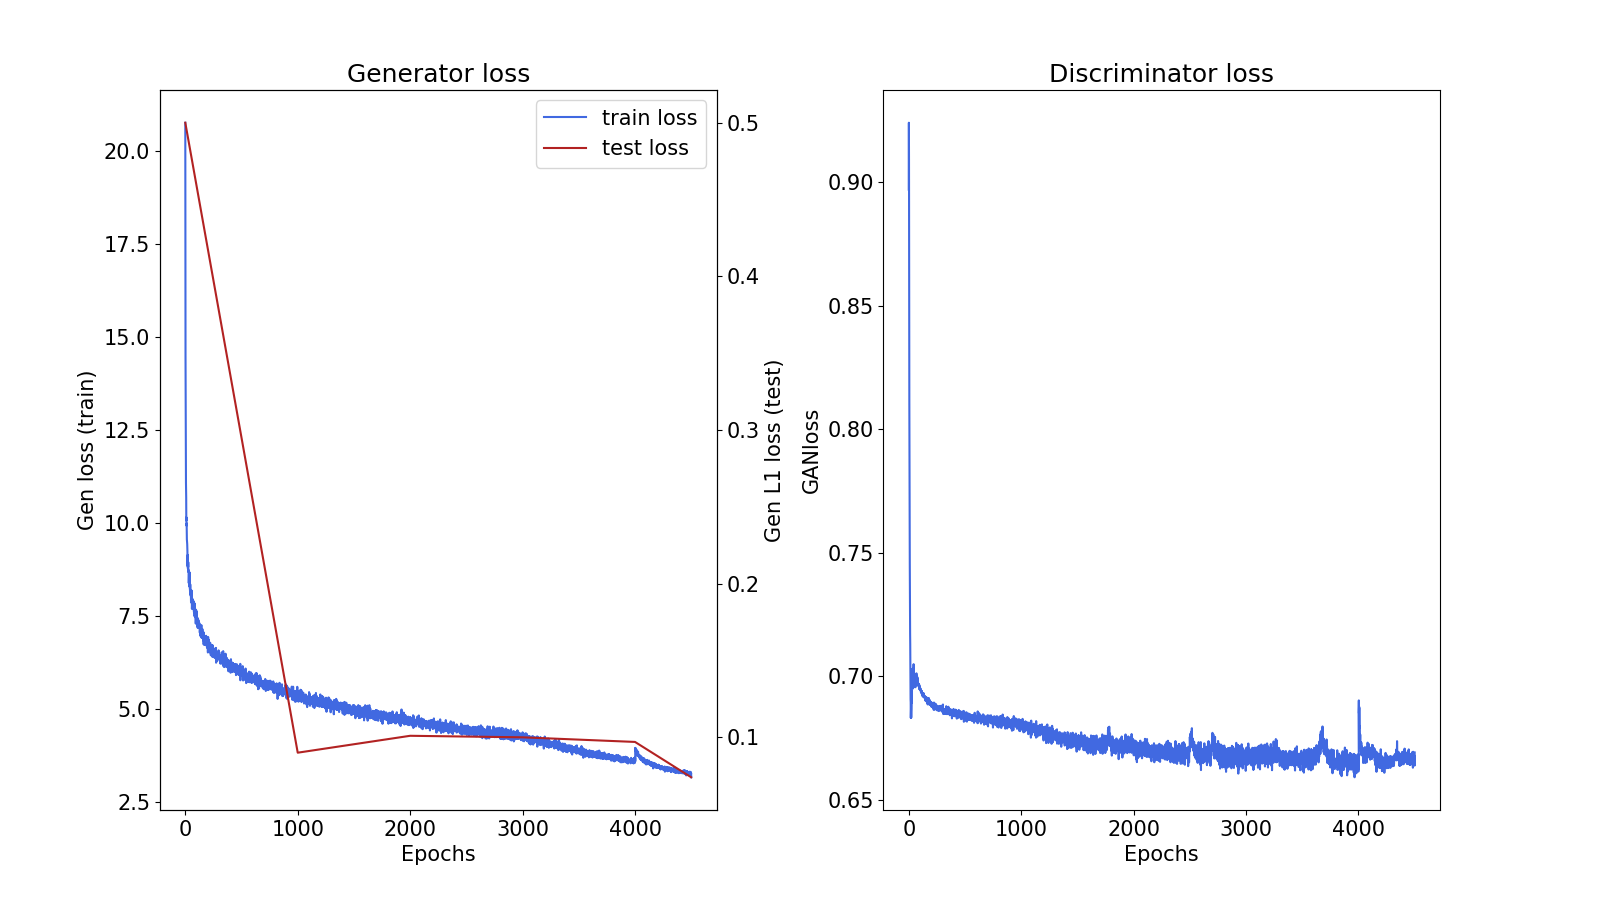
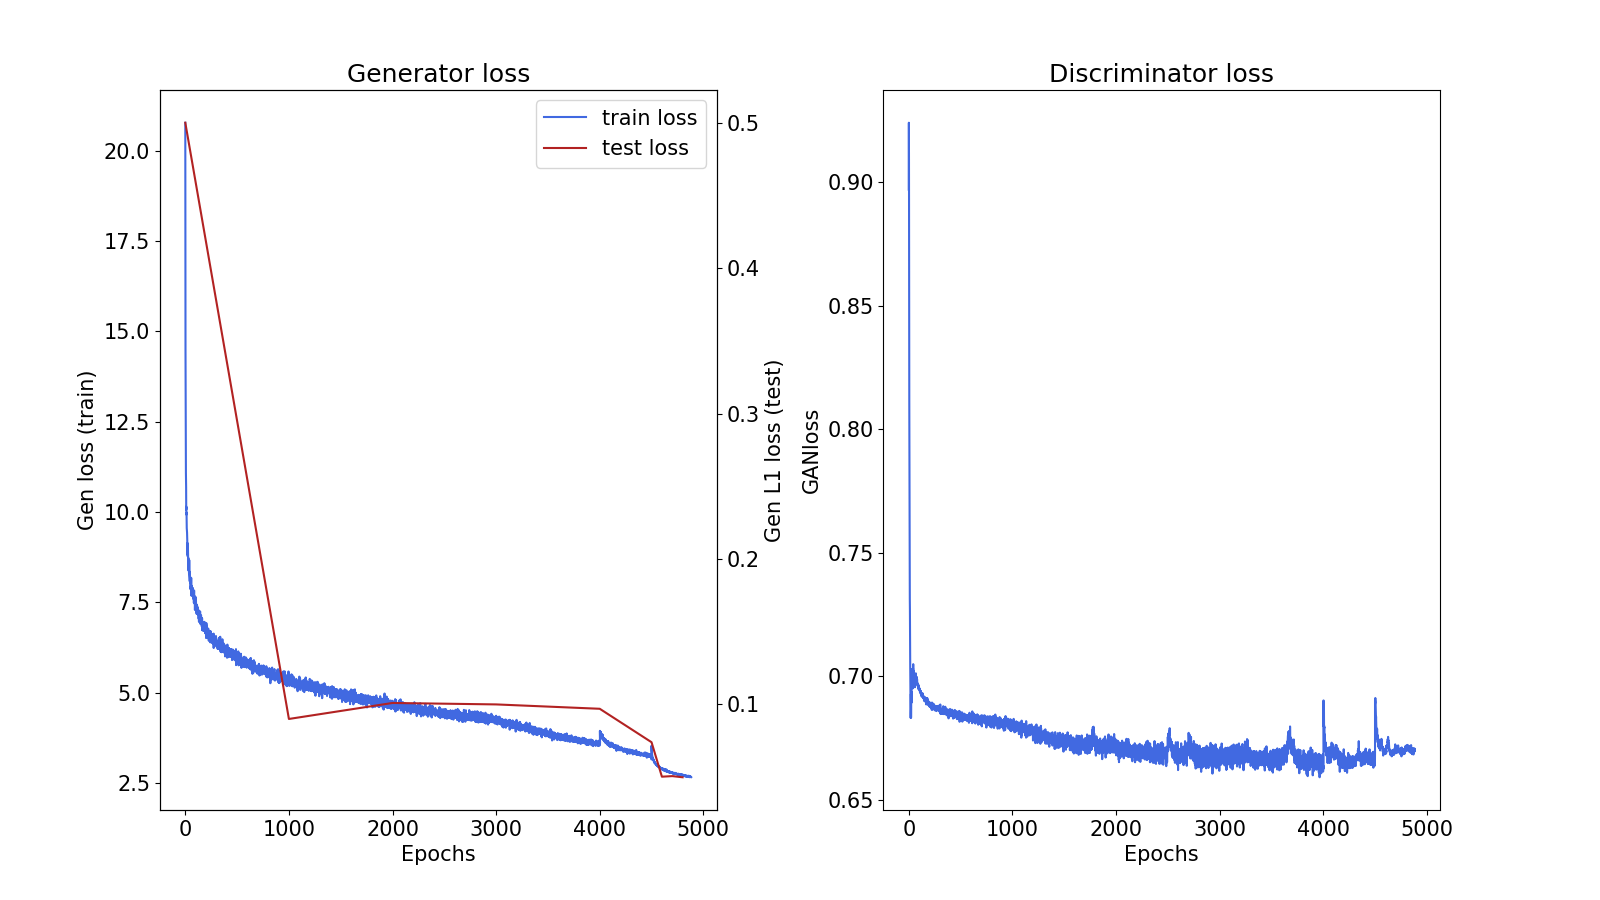
test again

diff --git a/visualize.py b/visualize.py
@@ -3,7 +3,7 @@
 import re
 import matplotlib.pyplot as plt
 
-files = ['../../../expmobile/train1.log', '../../../expmobile/train2.log', '../../../expmobile/train3.log']
+files = ['../../../expmobile/train1.log', '../../../expmobile/train2.log', '../../../expmobile/train3.log', '../../../expmobile/train4.log']
 #lines = [line.rstrip('\n') for line in open(file)]
 
 epochs = []
@@ -53,7 +53,7 @@ ax1.set_xlabel('Epochs')
 ax1.set_ylabel('Gen loss (train)')
 
 ax2 = ax1.twinx()
-p2 = ax2.plot([0, 1000, 2000, 3000, 4000, 4500], [0.5, 0.090, 0.101, 0.100, 0.097, 0.0740], 'firebrick', label='test loss')
+p2 = ax2.plot([0, 1000, 2000, 3000, 4000, 4500, 4600, 4700, 4800], [0.5, 0.090, 0.101, 0.100, 0.097, 0.0740, 0.0503, 0.0507, 0.0499], 'firebrick', label='test loss')
 ax2.set_ylabel('Gen L1 loss (test)')
 
 # added these three lines
@@ -71,7 +71,6 @@ plt.xlabel('Epochs')
 plt.ylabel('GANloss')
 plt.title('Discriminator loss')
 
-plt.show()
 fig.savefig('lossmobiletune.png')
 
 

diff --git a/data/png_dataset.py b/data/png_dataset.py
@@ -200,10 +200,10 @@ class PNGDataset(Dataset):
             new_height = new_width * H / W 
 
             
-            #x_image = x_image.resize((new_width, round(new_height)), Image.ANTIALIAS)
-            x_image = x_image.crop((0,0,1024,1024))
-            #y_image = y_image.resize((new_width, round(new_height)), Image.ANTIALIAS)
-            y_image = y_image.crop((0,0,1024,1024))
+            x_image = x_image.resize((new_width, round(new_height)), Image.ANTIALIAS)
+            #x_image = x_image.crop((0,0,1024,1024))
+            y_image = y_image.resize((new_width, round(new_height)), Image.ANTIALIAS)
+            #y_image = y_image.crop((0,0,1024,1024))
             
 
             transform_list = []

diff --git a/test.py b/test.py
@@ -6,7 +6,7 @@ import glob
 import math
 from PIL import Image
 
-imgs = glob.glob('../../../expmobile/4000/test/*.png')
+imgs = glob.glob('../../../expmobile/4800/test/*.png')
 
 def psnr(img1, img2):
     mse = np.mean( (img1 - img2) ** 2 )
@@ -25,8 +25,8 @@ for i, gt in enumerate(imgs):
     img_gt = Image.open(gt)
     img_out = Image.open(gt)
 
-    img_gt = img_gt.crop((0,0,2048,1024))
-    img_out = img_out.crop((2048,0,4096,1024))
+    img_gt = img_gt.crop((0,0,1024,1024))
+    img_out = img_out.crop((1024,0,2048,1024))
 
     d=psnr(np.asarray(img_gt),np.asarray(img_out))
     s=ssimm(np.asarray(img_gt),np.asarray(img_out))
